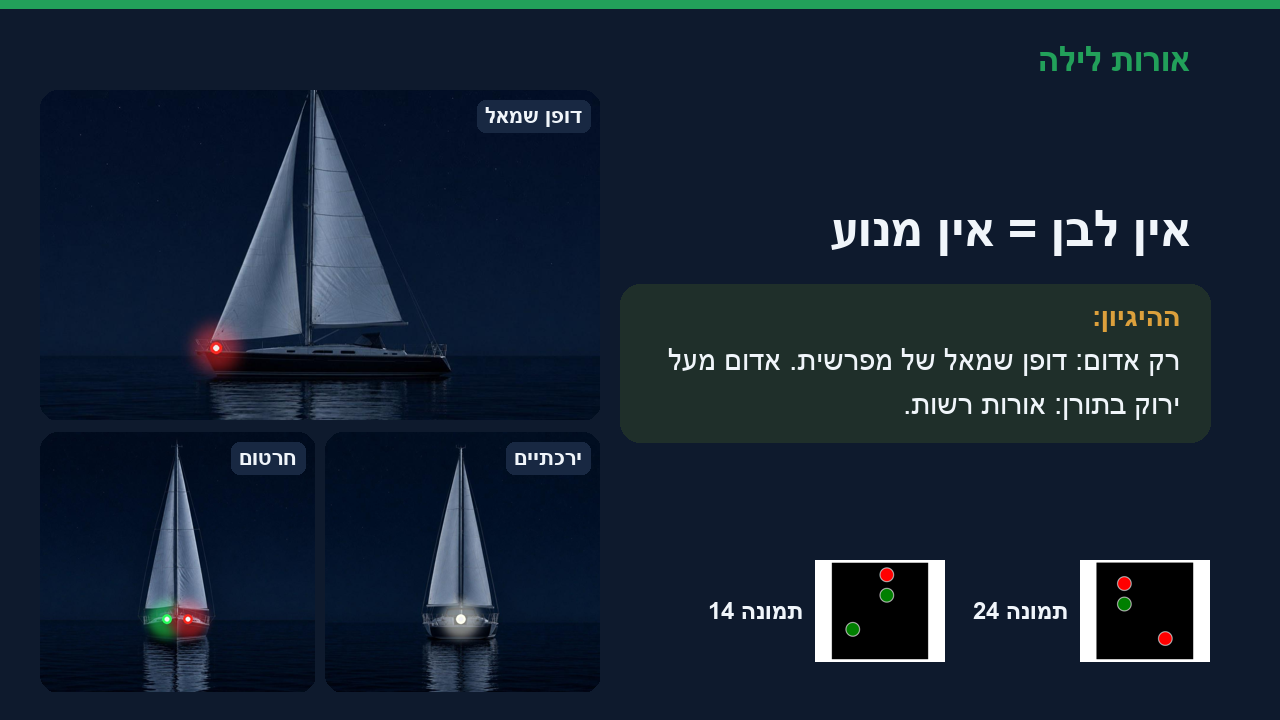
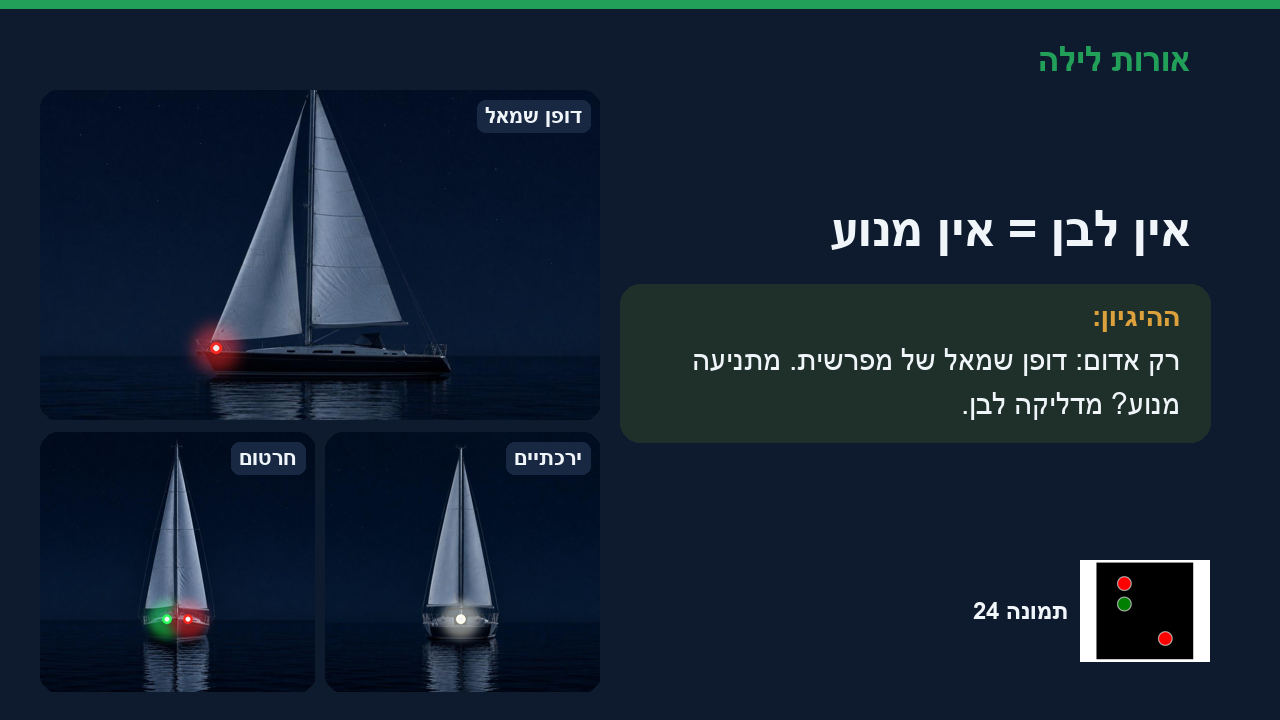
l12 אורות לילה: optional sailing masthead lights card (bow/port/stern, masthead only) + VO section

Changed region(s): [[0.5625, 0.7639, 0.75, 0.9167], [0.6875, 0.55, 0.9375, 0.5806], [0.5312, 0.4889, 0.625, 0.5194]]

diff --git a/lessons/l12/sources/cards_lights.py b/lessons/l12/sources/cards_lights.py
@@ -8,7 +8,7 @@ OUT = os.path.join(ROOT, "lessons", "l12", "cards", "אורות לילה")
 SIGNS = os.path.join(ROOT, "media", "signs")
 NIGHT = os.path.join(ROOT, "media", "vessels", "night")
 VESS = {"title": "power_big", "s_groups": "power_big", "s_headon": "power_big_bow", "s_stern": "power_big_stern",
-  "s_method": "power_small", "s_white": "power_big", "s_sail": "sail", "s_pilot": "pilot", "s_fish": "trawler",
+  "s_method": "power_small", "s_white": "power_big", "s_sail": "sail", "s_sail_opt": "sail_optional", "s_pilot": "pilot", "s_fish": "trawler",
   "s_rwr": "ram", "s_diamonds": "dredge", "s_divers": "divers", "s_draft": "draft", "s_mines": "mines_port",
   "s_nuc": "nuc", "s_aground": "aground", "s_anchor": "anchor_small", "s_anchor50": "anchor_big", "s_tow": "tow",
   "s_tow200": "tow_long", "s_yellow": "tow_stern", "s_flash": "hover", "s_ex1": "tow_stern", "s_ex2": "pilot_port"}
@@ -28,7 +28,8 @@ CARDS = {
  "s_method":  ("השיטה: קו מעל אורות הניווט", None, "מתחת לקו: איפה הוא יחסית אליי | מעל הקו: מי הוא | ואז: מי מפנה", [30]),
  "s_rules":   ("אותם חוקי פינוי", None, "ממוכן ← מפרש ← דייג ← מוגבל ← חסר שליטה", "LADDER"),
  "s_white":   ("לבן למעלה = יש מנוע", None, "לבן אחד: עד 50 מ' | שניים: מעל 50 מ'. הגודל לא משנה. ממוכן.", [15, 5]),
- "s_sail":    ("אין לבן = אין מנוע", None, "רק אדום: דופן שמאל של מפרשית. אדום מעל ירוק בתורן: אורות רשות.", [24, 14]),
+ "s_sail":    ("אין לבן = אין מנוע", None, "רק אדום: דופן שמאל של מפרשית. מתניעה מנוע? מדליקה לבן.", [24]),
+ "s_sail_opt":("אדום מעל ירוק בתורן = מפרשית", None, "אורות רשות ביאכטות גדולות. אצלנו כמעט לא רואים.", [14]),
  "s_pilot":   ("לבן מעל אדום = נתב", None, "כמו דגל H ביום. ממוכן לכל דבר. אין לו זכות עליך.", [46]),
  "s_fish":    ("צבע מעל לבן = דייג", None, "ירוק/לבן: מכמורתן | אדום/לבן: רשתות. מפנים לו. לבן למעלה? נתב.", [64, 55]),
  "s_rwr":     ("אדום · לבן · אדום = מוגבל", None, "כמו כדור-יהלום-כדור ביום. מפנים לו.", [35]),

diff --git a/media/vessels/night/compose_night.py b/media/vessels/night/compose_night.py
@@ -31,7 +31,8 @@ V = {
  "sail_bow":   ("sail_bow",   [(47, 72, G_), (53, 72, R_)]),
  "sail_port":  ("sail_port",  [(31.5, 72, R_)]),
  "sail_stern": ("sail_stern", [(49.5, 72, W_)]),
- "sail_optional_port": ("sail_port", [(48.8, 8.5, R_), (48.8, 12.5, G_), (31.5, 72, R_)]),
+ "sail_optional_port": ("sail_port", [(48.8, 8.5, R_), (48.8, 12.5, G_)]),   # masthead only (Alex)
+ "sail_optional_stern": ("sail_stern", [(49.5, 6.5, R_), (49.5, 10.5, G_)]),
  "sail_optional_bow":  ("sail_bow",  [(50, 6.5, R_), (50, 10.5, G_)]),   # masthead only, no deck sidelights (Alex)
  # pilot (white over red)
  "pilot_bow":   ("pilot_bow",   [(50, 22, W_), (50, 27, R_), (33, 52, G_), (67, 52, R_)]),
